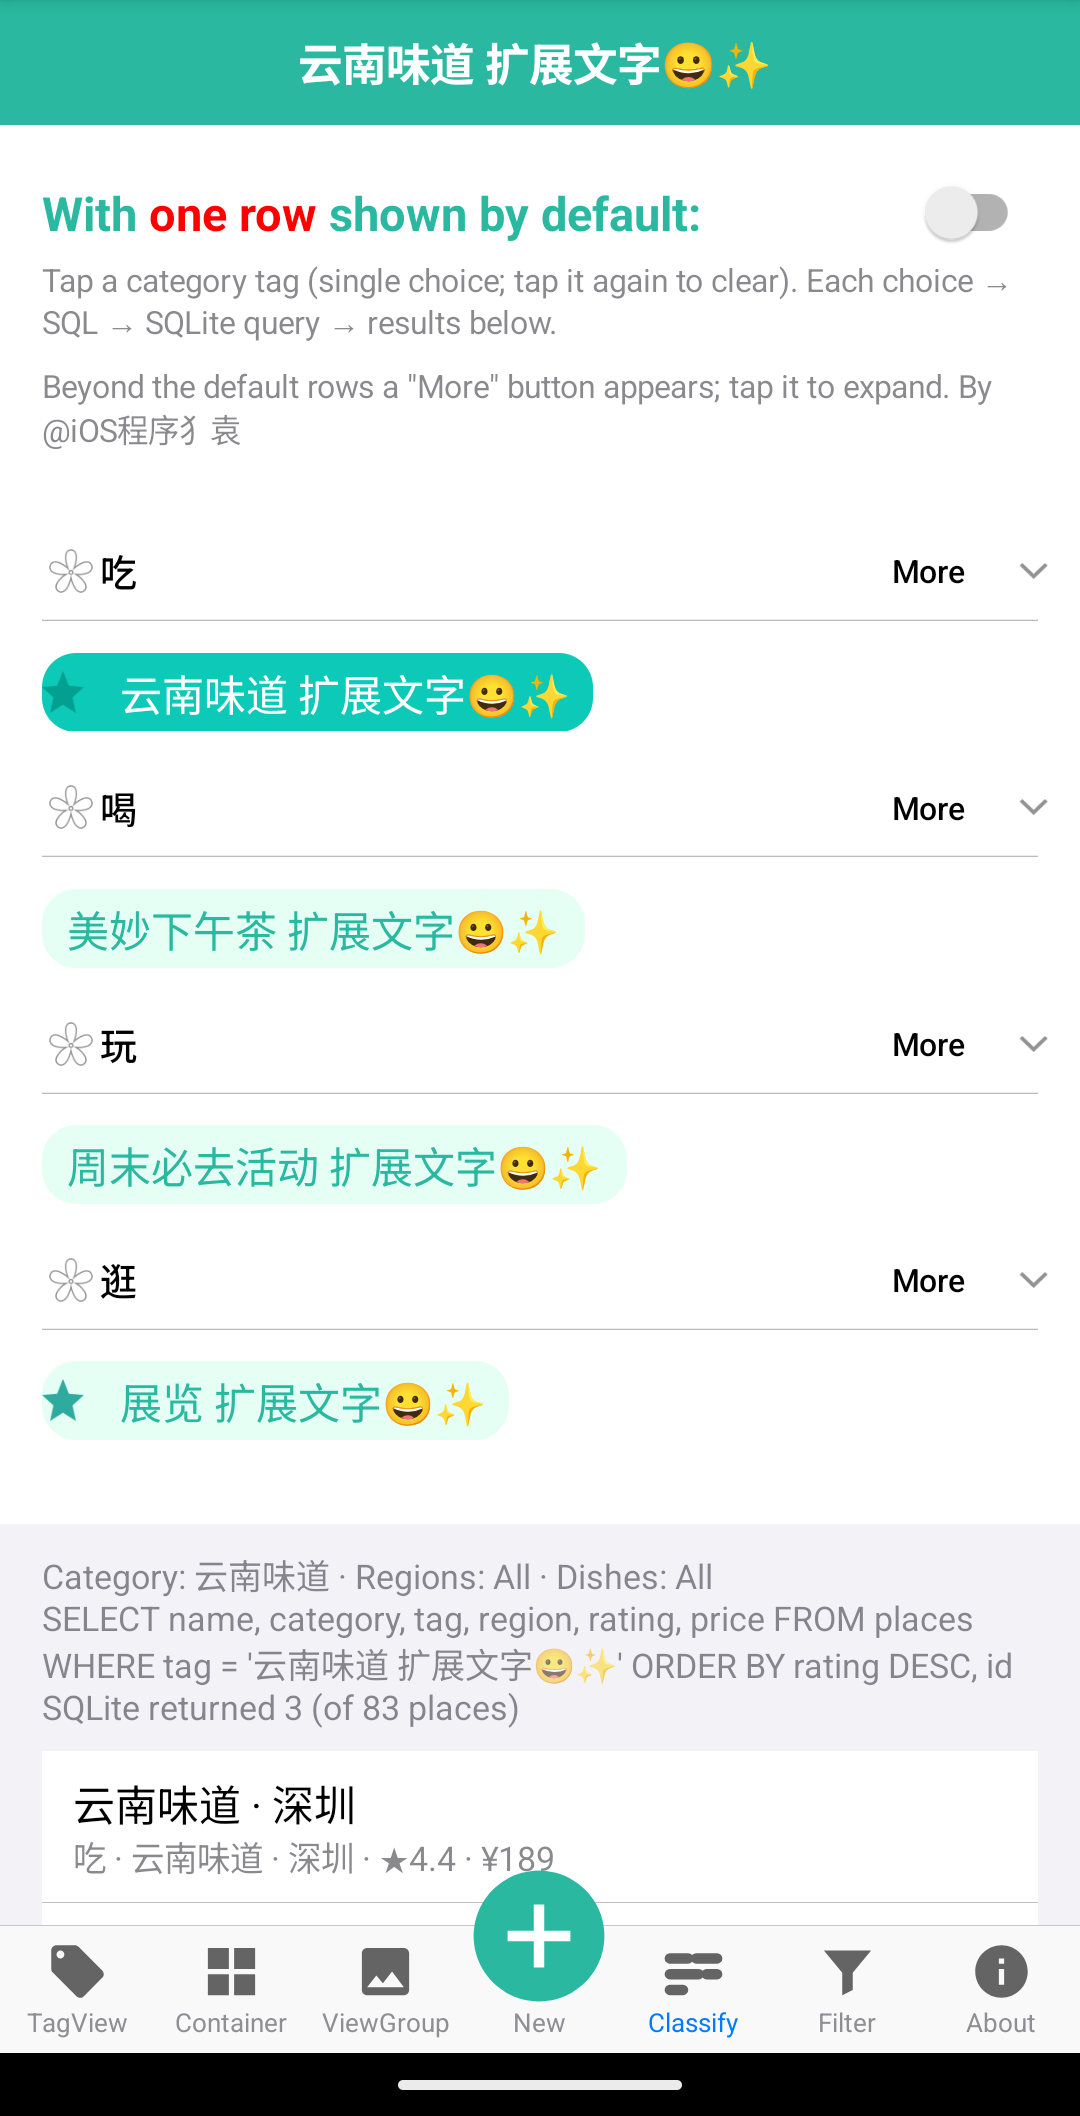
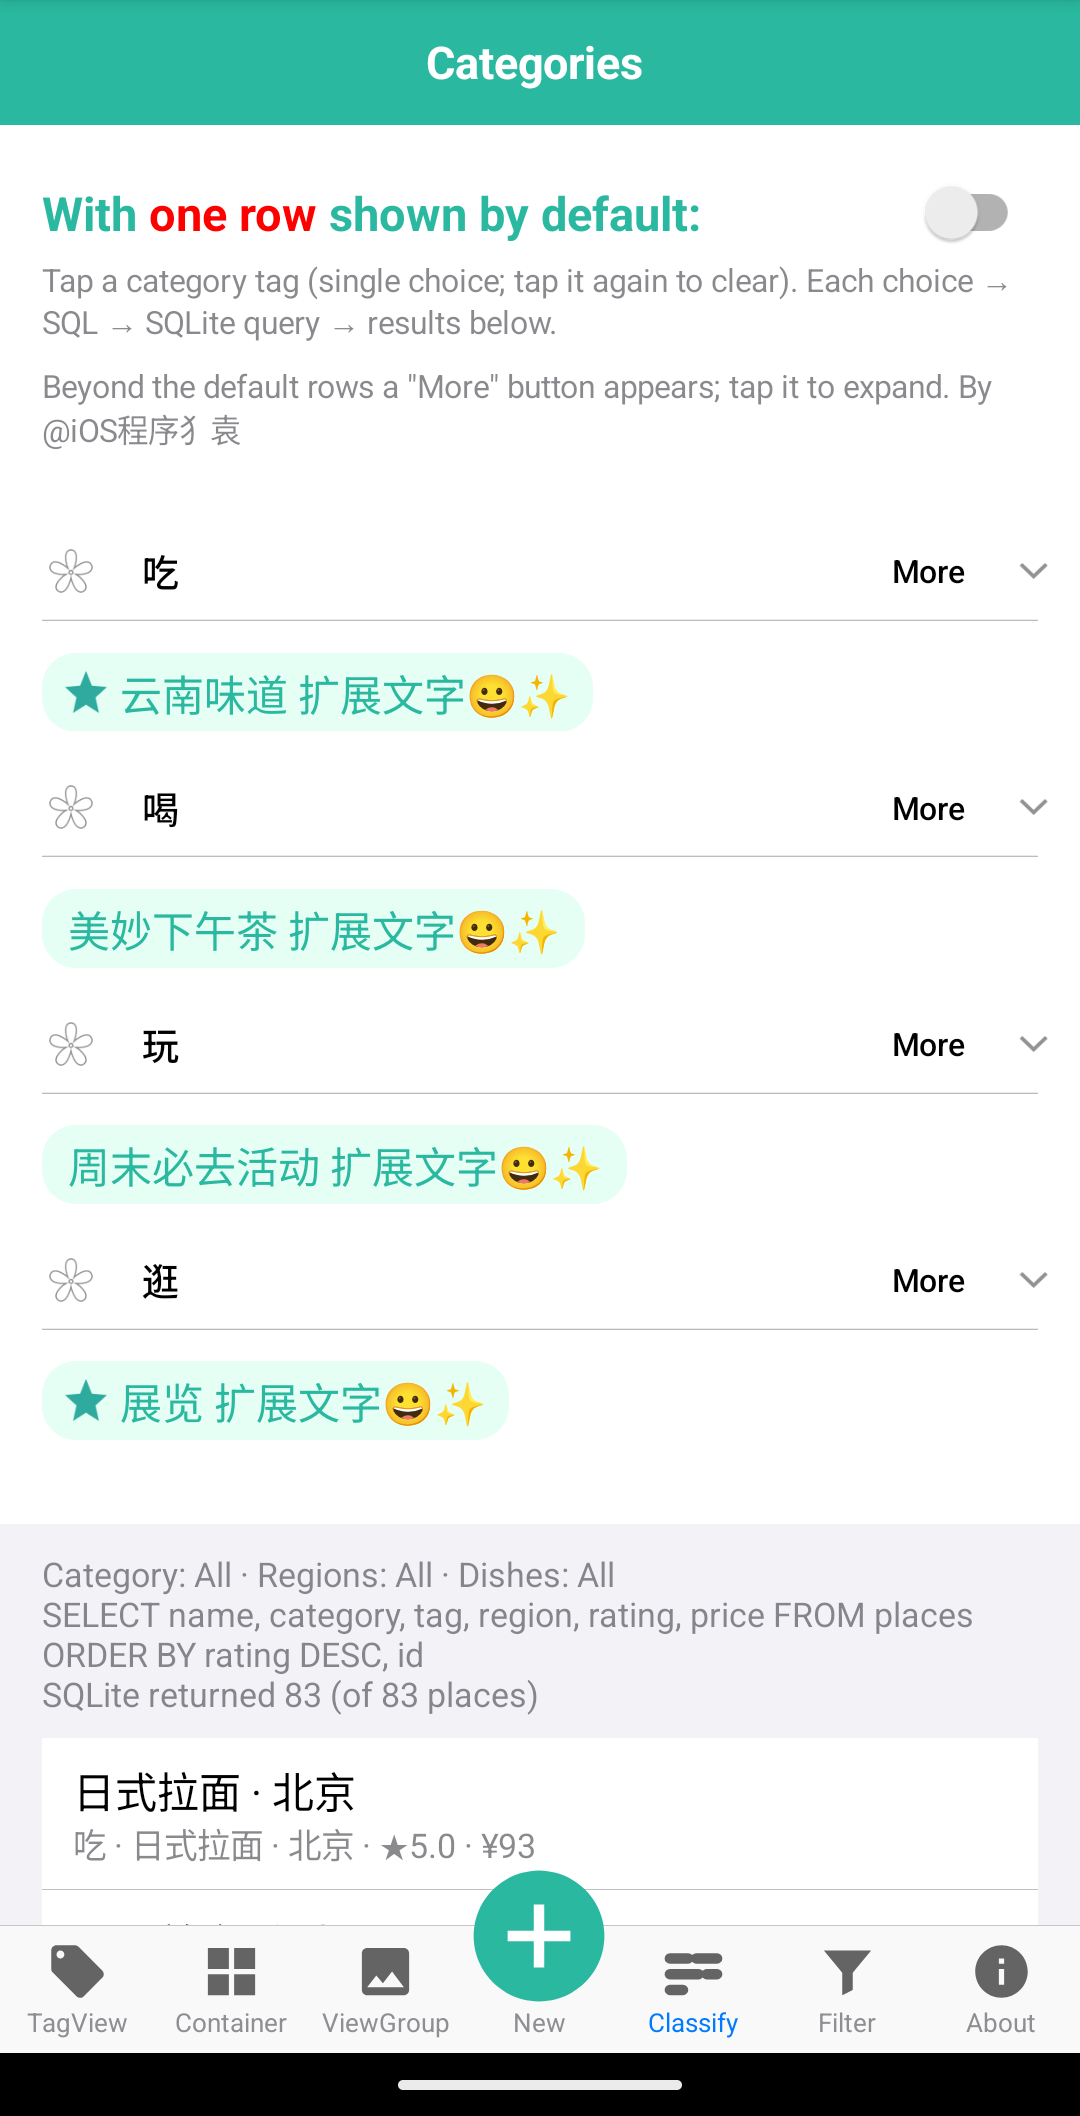
fix: 🐛 Android tag cells center image and title as iOS does
CYLIndexPathButton put the image at the cell's leading edge (a compound drawable at the padding) and centered only
the text, so image cells had no left padding. It now lays out as the iOS button: image and title centered together
(or at the start), the image half the spacing toward the leading edge and the title half toward the trailing edge plus
cyl_titleLeadingInset. CYLFilterHeaderView's title button starts at 16 with the inset between icon and title, as on
iOS. Pixel comparison and the remaining font-metric difference: docs/cross-platform.md.

Tests: 27 library unit tests, 0 failures; checked on the Android 15 emulator against the iOS 27.2 simulator.

By @ChenYilong <luohanchenyilong@163.com>

Claude-Session: https://claude.ai/code/session_017y7XP1mQbtZ3qSM2mvdshG

diff --git a/android/merged/library/src/main/java/com/cyl/classifymenu/CYLClassifyMenu.kt b/android/merged/library/src/main/java/com/cyl/classifymenu/CYLClassifyMenu.kt
@@ -25,7 +25,11 @@ import kotlin.math.roundToInt
 
 /**
  * `CYLIndexPathButton`: a button that knows its item (section, row), with spacing between its image and title and
- * an inset before the title (dp).
+ * an inset before the title (dp). It lays its image and title out as the iOS button does: centered gravity centers
+ * image and title together (`UIControlContentHorizontalAlignmentCenter`), start gravity puts them at the leading edge;
+ * then the image moves `cyl_imageTitleSpacing / 2` toward the leading edge and the title the same toward the trailing
+ * edge, plus `cyl_titleLeadingInset`. So with the same parameters the padding before the image equals the padding
+ * after the title, as on iOS.
  */
 open class CYLIndexPathButton @JvmOverloads constructor(context: Context, attrs: AttributeSet? = null) : Button(context, attrs) {
     var section: Int = 0
@@ -38,7 +42,7 @@ open class CYLIndexPathButton @JvmOverloads constructor(context: Context, attrs:
         set(value) {
             if (field == value) return
             field = value
-            compoundDrawablePadding = (value * resources.displayMetrics.density).roundToInt()
+            requestLayout()
         }
 
     /**
@@ -48,8 +52,14 @@ open class CYLIndexPathButton @JvmOverloads constructor(context: Context, attrs:
         set(value) {
             if (field == value) return
             field = value
-            setPaddingRelative((value * resources.displayMetrics.density).roundToInt(), paddingTop, paddingEnd, paddingBottom)
+            requestLayout()
         }
+
+    /**
+     * The horizontal gravity the caller asked for (null: centered, the iOS default); the button itself always uses
+     * start gravity with computed padding.
+     */
+    private var requestedHorizontalGravity: Int? = null
 
     init {
         isAllCaps = false
@@ -59,6 +69,12 @@ open class CYLIndexPathButton @JvmOverloads constructor(context: Context, attrs:
         minimumWidth = 0
         setPadding(0, 0, 0, 0)
         stateListAnimator = null
+        maxLines = 1
+    }
+
+    override fun setGravity(gravity: Int) {
+        requestedHorizontalGravity = gravity and android.view.Gravity.HORIZONTAL_GRAVITY_MASK
+        super.setGravity((gravity and android.view.Gravity.VERTICAL_GRAVITY_MASK).let { if (it == 0) Gravity.CENTER_VERTICAL else it } or Gravity.START)
     }
 
     /**
@@ -67,12 +83,52 @@ open class CYLIndexPathButton @JvmOverloads constructor(context: Context, attrs:
     fun setImage(image: Drawable?) {
         image?.setBounds(0, 0, image.intrinsicWidth, image.intrinsicHeight)
         setCompoundDrawablesRelative(image, null, null, null)
+        requestLayout()
     }
 
     /**
      * `currentImage`.
      */
     val currentImage: Drawable? get() = compoundDrawablesRelative[0]
+
+    override fun onLayout(changed: Boolean, left: Int, top: Int, right: Int, bottom: Int) {
+        cyl_layoutContent(right - left)
+        super.onLayout(changed, left, top, right, bottom)
+    }
+
+    override fun onTextChanged(text: CharSequence?, start: Int, lengthBefore: Int, lengthAfter: Int) {
+        super.onTextChanged(text, start, lengthBefore, lengthAfter)
+        requestLayout()
+    }
+
+    /**
+     * `-layoutSubviews` of the iOS button: the padding before the image (or the title) and the gap between them.
+     */
+    private fun cyl_layoutContent(width: Int) {
+        val density = resources.displayMetrics.density
+        val image = currentImage
+        val hasTitle = !text.isNullOrEmpty()
+        val imageWidth = image?.bounds?.width() ?: 0
+        val titleWidth = if (hasTitle) paint.measureText(text.toString()) else 0f
+        val inset = cyl_titleLeadingInset * density
+        val halfSpacing = if (image != null && hasTitle && cyl_imageTitleSpacing > 0) cyl_imageTitleSpacing * density / 2 else 0f
+        val centered = (requestedHorizontalGravity ?: Gravity.CENTER_HORIZONTAL) == Gravity.CENTER_HORIZONTAL
+        // The content's leading edge before the iOS adjustments: centered, or at the start.
+        val contentStart = if (centered) (width - imageWidth - titleWidth) / 2 else 0f
+        val start: Float
+        val gap: Float
+        if (image != null) {
+            start = contentStart - halfSpacing
+            gap = 2 * halfSpacing + if (hasTitle) inset else 0f
+        } else {
+            start = contentStart + if (hasTitle) inset else 0f
+            gap = 0f
+        }
+        val startPx = kotlin.math.max(0, start.roundToInt())
+        val gapPx = kotlin.math.max(0, gap.roundToInt())
+        if (paddingStart != startPx || paddingEnd != 0) setPaddingRelative(startPx, paddingTop, 0, paddingBottom)
+        if (compoundDrawablePadding != gapPx) compoundDrawablePadding = gapPx
+    }
 }
 
 /**
@@ -189,6 +245,7 @@ class CYLFilterHeaderView @JvmOverloads constructor(context: Context, attrs: Att
         val moreX = max(16f, w - 12 - moreWidth)
         moreButton.measure(MeasureSpec.makeMeasureSpec((moreWidth * density).roundToInt(), MeasureSpec.EXACTLY), MeasureSpec.makeMeasureSpec(height, MeasureSpec.EXACTLY))
         titleButton.measure(MeasureSpec.makeMeasureSpec((max(0f, moreX - 24) * density).roundToInt(), MeasureSpec.EXACTLY), MeasureSpec.makeMeasureSpec(height, MeasureSpec.EXACTLY))
+        // iOS: titleButton.frame = (16, 0, moreX - 24, height), image at its leading edge, title 16 after it.
     }
 
     override fun onLayout(changed: Boolean, l: Int, t: Int, r: Int, b: Int) {
@@ -196,7 +253,7 @@ class CYLFilterHeaderView @JvmOverloads constructor(context: Context, attrs: Att
         val moreWidth = min(72f, max(0f, w - 28))
         val moreX = max(16f, w - 12 - moreWidth)
         moreButton.layout((moreX * density).roundToInt(), 0, ((moreX + moreWidth) * density).roundToInt(), b - t)
-        titleButton.layout(0, 0, (max(0f, moreX - 8) * density).roundToInt(), b - t)
+        titleButton.layout((16 * density).roundToInt(), 0, (max(16f, moreX - 8) * density).roundToInt(), b - t)
     }
 
     override fun onDraw(canvas: Canvas) {

diff --git a/docs/cross-platform.md b/docs/cross-platform.md
@@ -20,7 +20,33 @@ Program) show the same screens with the same data and look the same as iOS, whic
 
 ## TODO (2026-11-12): the tag cells look the same as iOS on every platform
 
-- **Status:** TODO.
+- **Status:** Android left spacing DONE (this commit); residual gap and React Native / Flutter TODO.
+- **Cause (core):** Android `CYLIndexPathButton` put the image as a compound drawable at the padding edge and
+  centered only the text, so the image touched the cell's left edge. iOS `UIButton` centers image and title together,
+  then `CYLIndexPathButton -layoutSubviews` moves the image `cyl_imageTitleSpacing / 2` left and the title the same
+  right (plus `cyl_titleLeadingInset`). The Android button now computes its padding with the same algorithm (centered
+  or start gravity, half spacing, title inset), and the section header's title button starts at 16 with the inset
+  between icon and title, as `CYLFilterHeaderView` does on iOS.
+- **Pixel comparison** (iOS 27.2 simulator, iPhone 17 Pro, @3x → pt; Android 15 emulator, 2.625x → dp; same data,
+  same parameters; `tools`: a CoreGraphics scanner measuring the pill and its content edges):
+
+  | Cell | Platform | Pill | Left padding | Right padding |
+  | --- | --- | --- | --- | --- |
+  | ★ 展览 扩展文字😀✨ | iOS | 16.0…199.7 (183.7) | 6.0 | 8.7 |
+  | ★ 展览 扩展文字😀✨ | Android before | 16.0…193.5 | 0 (image at the edge) | 9.9 |
+  | ★ 展览 扩展文字😀✨ | Android after | 16.0…193.5 (177.5) | 8.8 | 9.9 |
+  | 美妙下午茶 扩展文字😀✨ | iOS | 16.0…228.7 (212.7) | 10.3 | 12.3 |
+  | 美妙下午茶 扩展文字😀✨ | Android after | 16.0…222.5 (206.5) | 10.7 | 10.7 |
+
+  Top to bottom: iOS, Android before, Android after:
+
+  <img src="assets/tag-cell-ios-android-compare.png" width="600" alt="Tag cell: iOS, Android before, Android after">
+
+- **Residual (TODO):** iOS cells are about 6 pt wider and the iOS gap between image and title is about 10 pt against
+  4.6 dp, although both use text width + 38 and a spacing of 5. Both come from text measurement: the iOS title label
+  is wider than `-sizeWithAttributes:` (Apple Color Emoji / PingFang metrics), and `UIButton` centers within that
+  label; Android measures with Noto. Next: log the iOS title label's frame in a test, then decide whether the core
+  should size cells from the label's intrinsic width on both platforms.
 - **Context:** with the same parameters, the Android classify menu's tag cells differ from iOS: an image sits at the
   cell's left edge on Android, while iOS centers image and title together, so the left padding equals the right one
   (`assets/request-android-cell-left-spacing.png`, `assets/request-ios-cell-reference.png`,
